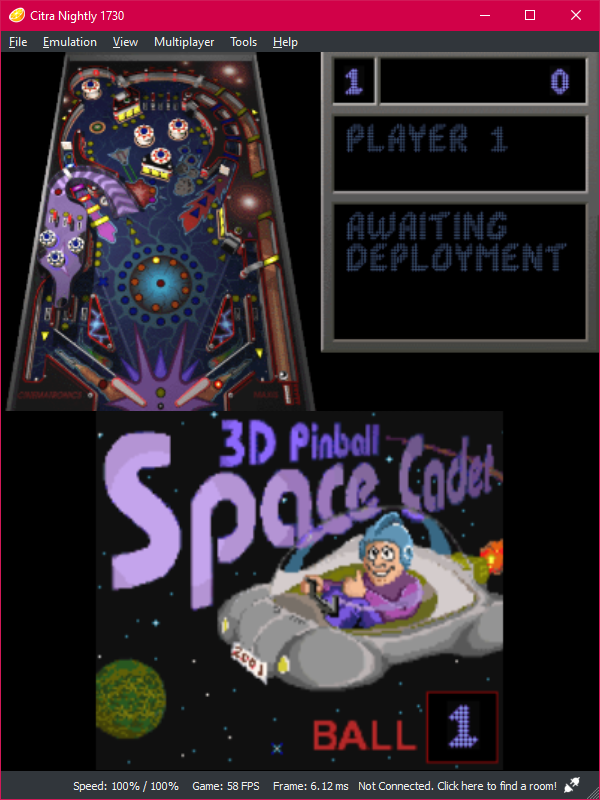
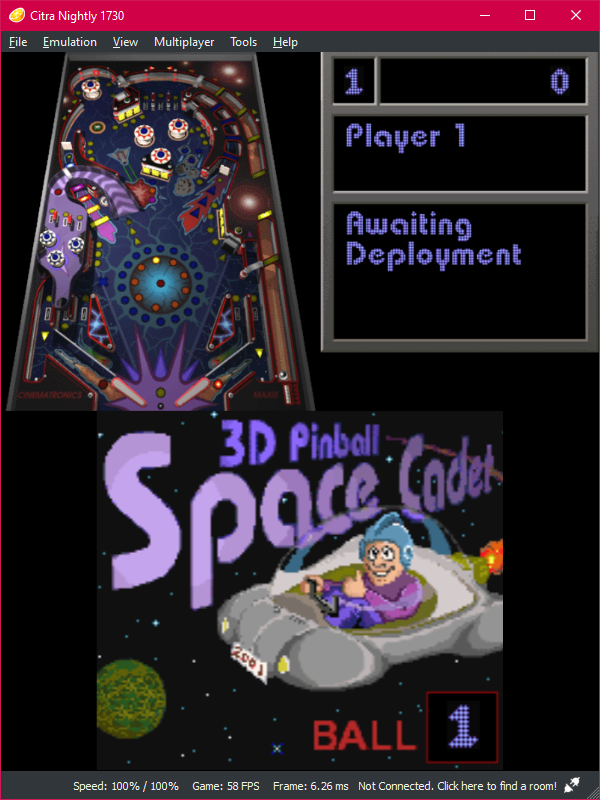
The game now loads the good font that's embedded in pinball.exe.
Also deleted the font that was included in EmbeddedData.cpp.

diff --git a/SpaceCadetPinball/GroupData.cpp b/SpaceCadetPinball/GroupData.cpp
@@ -2,7 +2,6 @@
 
 #include "GroupData.h"
 
-#include "EmbeddedData.h"
 #include "fullscrn.h"
 #include "gdrv.h"
 #include "pb.h"
@@ -281,6 +280,159 @@ zmap_header_type* DatFile::GetZMap(int groupIndex)
 	return group->GetZMap(fullscrn::GetResolution());
 }
 
+MsgFont *DatFile::ReadPEMsgFontResource(const std::string peName)
+{
+	auto file = pinball::make_path_name(peName);
+	auto fileHandle = fopen(file.c_str(), "rb");
+
+	if (fileHandle == nullptr)
+		return nullptr;
+
+	fseek(fileHandle, 0x3C, SEEK_SET);
+	constexpr uint8_t peHeaderSize = 0x18;
+	uint32_t peHeaderOffset;
+	fread(&peHeaderOffset, sizeof(uint32_t), 1, fileHandle);
+
+	fseek(fileHandle, peHeaderOffset + 0x6, SEEK_SET);
+	uint16_t numberOfSections;
+	fread(&numberOfSections, sizeof(uint16_t), 1, fileHandle);
+
+	if (numberOfSections != 3)
+	{
+		fclose(fileHandle);
+		return nullptr;
+	}
+
+	fseek(fileHandle, peHeaderOffset + 0x14, SEEK_SET);
+	uint16_t sizeOfOptionalHeader;
+	fread(&sizeOfOptionalHeader, sizeof(uint16_t), 1, fileHandle);
+
+	constexpr uint8_t sizeOfSectionHeader = 0x28;
+	uint32_t sectionHeadersOffset = peHeaderOffset + peHeaderSize + sizeOfOptionalHeader;
+	uint32_t thirdSectionHeaderOffset = sectionHeadersOffset + sizeOfSectionHeader * 2;
+	fseek(fileHandle, thirdSectionHeaderOffset, SEEK_SET);
+
+	char sectionName[0x8] = {};
+	fread(sectionName, sizeof(char), 0x8, fileHandle);
+
+	if (strcmp(sectionName, ".rsrc\0") != 0)
+	{
+		fclose(fileHandle);
+		return nullptr;
+	}
+
+	fseek(fileHandle, thirdSectionHeaderOffset + 0xc, SEEK_SET);
+	uint32_t rsrcSectionVirtualAddress;
+	fread(&rsrcSectionVirtualAddress, sizeof(uint32_t), 1, fileHandle);
+
+	fseek(fileHandle, thirdSectionHeaderOffset + 0x14, SEEK_SET);
+	uint32_t rsrcSectionDataOffset;
+	fread(&rsrcSectionDataOffset, sizeof(uint32_t), 1, fileHandle);
+
+	fseek(fileHandle, rsrcSectionDataOffset + 0xe, SEEK_SET);
+	uint16_t numberOfIDEntries;
+	fread(&numberOfIDEntries, sizeof(uint16_t), 1, fileHandle);
+
+	if (numberOfIDEntries == 0)
+	{
+		fclose(fileHandle);
+		return nullptr;
+	}
+
+	uint32_t subdirectoryOffset = 0;
+
+	for (uint16_t e = 0; e < numberOfIDEntries; e++)
+	{
+		fseek(fileHandle, rsrcSectionDataOffset + 0x10 + (0x8 * e), SEEK_SET);
+		int32_t entryIntegerID;
+		fread(&entryIntegerID, sizeof(int32_t), 1, fileHandle);
+
+		if (entryIntegerID == 0xa) // RCDATA
+		{
+			fread(&subdirectoryOffset, sizeof(uint32_t), 1, fileHandle);
+			subdirectoryOffset &= 0x7fffffff;
+			subdirectoryOffset += rsrcSectionDataOffset;
+			break;
+		}
+	}
+
+	if (subdirectoryOffset == 0)
+	{
+		fclose(fileHandle);
+		return nullptr;
+	}
+
+	fseek(fileHandle, subdirectoryOffset + 0xc, SEEK_SET);
+	uint16_t numberOfNameEntries;
+	fread(&numberOfNameEntries, sizeof(uint16_t), 1, fileHandle);
+
+	if (numberOfNameEntries == 0)
+	{
+		fclose(fileHandle);
+		return nullptr;
+	}
+
+	fseek(fileHandle, subdirectoryOffset + 0x10, SEEK_SET);
+
+	uint32_t nameOffset;
+	fread(&nameOffset, sizeof(uint32_t), 1, fileHandle);
+	nameOffset &= 0x7fffffff;
+	nameOffset += rsrcSectionDataOffset;
+
+	fread(&subdirectoryOffset, sizeof(uint32_t), 1, fileHandle);
+	subdirectoryOffset &= 0x7fffffff;
+	subdirectoryOffset += rsrcSectionDataOffset;
+
+	fseek(fileHandle, nameOffset, SEEK_SET);
+	uint16_t expectedName[9] = {0x08, 0x50, 0x42, 0x4d, 0x53, 0x47, 0x5f, 0x46, 0x54}; // PBMSG_FT
+	uint16_t name[9];
+	fread(name, sizeof(uint16_t), 9, fileHandle);
+
+	for (int n = 0; n < 9; n++)
+	{
+		if (name[n] != expectedName[n])
+		{
+			fclose(fileHandle);
+			return nullptr;
+		}
+	}
+
+	fseek(fileHandle, subdirectoryOffset + 0xe, SEEK_SET);
+	fread(&numberOfIDEntries, sizeof(uint16_t), 1, fileHandle);
+
+	if (numberOfIDEntries == 0)
+	{
+		fclose(fileHandle);
+		return nullptr;
+	}
+
+	// If the user has some pinball.exe in a language other than English,
+	// or multiple languages, there would be one IDEntry for each language here.
+
+	/*fseek(fileHandle, subdirectoryOffset + 0x10, SEEK_SET);
+	uint32_t languageID;
+	fread(&languageID, sizeof(uint32_t), 1, fileHandle);*/
+
+	fseek(fileHandle, subdirectoryOffset + 0x14, SEEK_SET);
+	uint32_t dataEntryOffset;
+	fread(&dataEntryOffset, sizeof(uint32_t), 1, fileHandle);
+	dataEntryOffset &= 0x7fffffff;
+	dataEntryOffset += rsrcSectionDataOffset;
+
+	fseek(fileHandle, dataEntryOffset, SEEK_SET);
+	uint32_t dataOffset, dataSize;
+	fread(&dataOffset, sizeof(uint32_t), 1, fileHandle);
+	fread(&dataSize, sizeof(uint32_t), 1, fileHandle);
+
+	fseek(fileHandle, (rsrcSectionDataOffset - rsrcSectionVirtualAddress) + dataOffset, SEEK_SET);
+	MsgFont *msgFont = reinterpret_cast<MsgFont *>(new uint8_t[dataSize]);
+	fread(msgFont, 1, dataSize, fileHandle);
+
+	fclose(fileHandle);
+
+	return msgFont;
+}
+
 void DatFile::Finalize()
 {
 	if (!pb::FullTiltMode)
@@ -288,23 +440,28 @@ void DatFile::Finalize()
 		int groupIndex = record_labeled("pbmsg_ft");
 		assertm(groupIndex < 0, "DatFile: pbmsg_ft is already in .dat");
 
-		// Load 3DPB font into dat to simplify pipeline
-		// auto rcData = reinterpret_cast<MsgFont*>(ImFontAtlas::DecompressCompressedBase85Data(
-		// 	EmbeddedData::PB_MSGFT_bin_compressed_data_base85));
-		// AddMsgFont(rcData, "pbmsg_ft");
-		// IM_FREE(rcData);
+		MsgFont *rcData = ReadPEMsgFontResource("pinball.exe");
 
-		// PINBALL2.MID is an alternative font provided in 3DPB data
-		auto file = pinball::make_path_name("PINBALL2.MID");
-		auto fileHandle = fopen(file.c_str(), "rb");
-		fseek(fileHandle, 0, SEEK_END);
-		auto fileSize = static_cast<uint32_t>(ftell(fileHandle));
-		auto rcData = reinterpret_cast<MsgFont*>(new uint8_t[fileSize]);
-		fseek(fileHandle, 0, SEEK_SET);
-		fread(rcData, 1, fileSize, fileHandle);
+		if (rcData != nullptr)
+		{
+			AddMsgFont(rcData, "pbmsg_ft", false);
+		}
+		else
+		{
+			// PINBALL2.MID is an alternative font provided in 3DPB data
 
-		fclose(fileHandle);
-		AddMsgFont(rcData, "pbmsg_ft");
+			auto file = pinball::make_path_name("PINBALL2.MID");
+			auto fileHandle = fopen(file.c_str(), "rb");
+			fseek(fileHandle, 0, SEEK_END);
+			auto fileSize = static_cast<uint32_t>(ftell(fileHandle));
+			rcData = reinterpret_cast<MsgFont *>(new uint8_t[fileSize]);
+			fseek(fileHandle, 0, SEEK_SET);
+			fread(rcData, 1, fileSize, fileHandle);
+			fclose(fileHandle);
+
+			AddMsgFont(rcData, "pbmsg_ft", true);
+		}
+
 		delete[] rcData;
 	}
 
@@ -314,7 +471,7 @@ void DatFile::Finalize()
 	}
 }
 
-void DatFile::AddMsgFont(MsgFont* font, const std::string& fontName)
+void DatFile::AddMsgFont(MsgFont *font, const std::string &fontName, const bool changePaletteIndices)
 {
 	auto groupId = Groups.back()->GroupId + 1;
 	auto ptrToData = reinterpret_cast<char*>(font->Data);
@@ -322,6 +479,19 @@ void DatFile::AddMsgFont(MsgFont* font, const std::string& fontName)
 	{
 		auto curChar = reinterpret_cast<MsgFontChar*>(ptrToData);
 		assertm(curChar->Width == font->CharWidths[charInd], "Score: mismatched font width");
+
+		if (changePaletteIndices)
+		{
+			// The alternate font in PINBALL2.MID is hard to read due to having dark colors.
+			// Modify the pixels so it matches the other font.
+			
+			for (int i = 0; i < curChar->Width * font->Height; i++)
+			{
+				if (curChar->Data[i] == 0x50) curChar->Data[i] = 0x30;
+				if (curChar->Data[i] == 0x69) curChar->Data[i] = 0x64;
+			}
+		}
+
 		ptrToData += curChar->Width * font->Height + 1;
 
 		auto bmp = new gdrv_bitmap8(curChar->Width, font->Height, true);

diff --git a/SpaceCadetPinball/GroupData.h b/SpaceCadetPinball/GroupData.h
@@ -121,8 +121,9 @@ public:
 	char* field_labeled(LPCSTR lpString, FieldTypes fieldType);
 	gdrv_bitmap8* GetBitmap(int groupIndex);
 	zmap_header_type* GetZMap(int groupIndex);
+	MsgFont* ReadPEMsgFontResource(const std::string peName);
 	void Finalize();
 
 private:
-	void AddMsgFont(MsgFont* font, const std::string& fontName);
+	void AddMsgFont(MsgFont* font, const std::string& fontName, const bool changePaletteIndices);
 };

diff --git a/SpaceCadetPinball/score.cpp b/SpaceCadetPinball/score.cpp
@@ -1,7 +1,6 @@
 #include "pch.h"
 #include "score.h"
 
-#include "EmbeddedData.h"
 #include "fullscrn.h"
 #include "loader.h"
 #include "GroupData.h"
